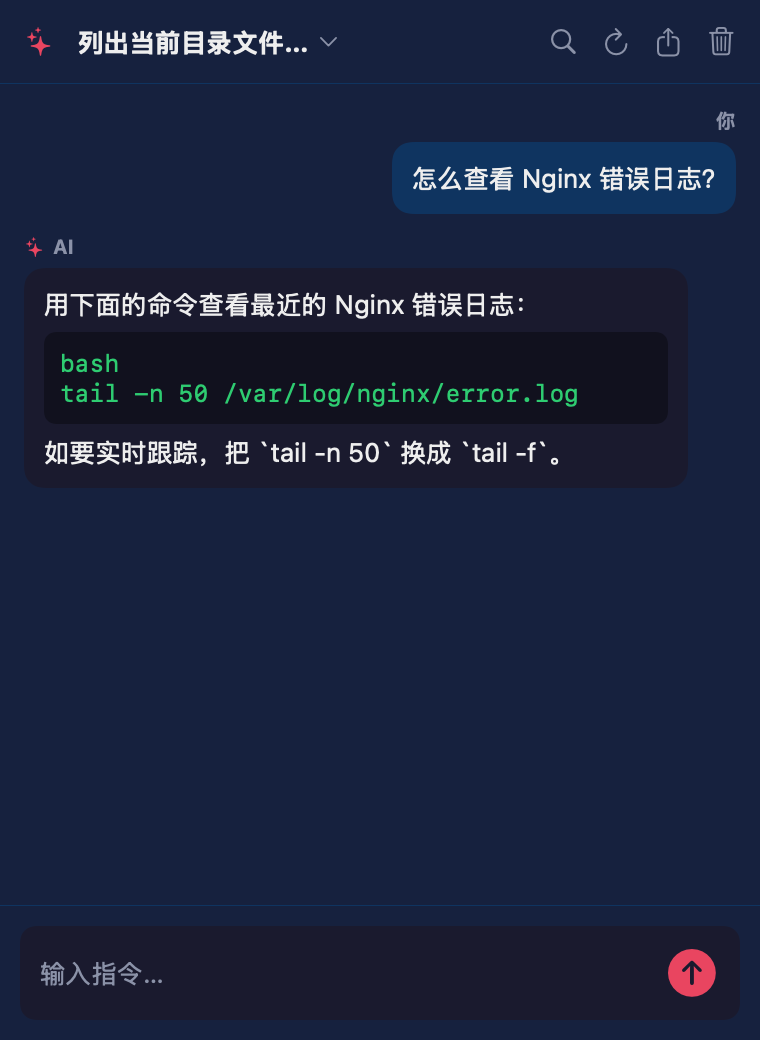
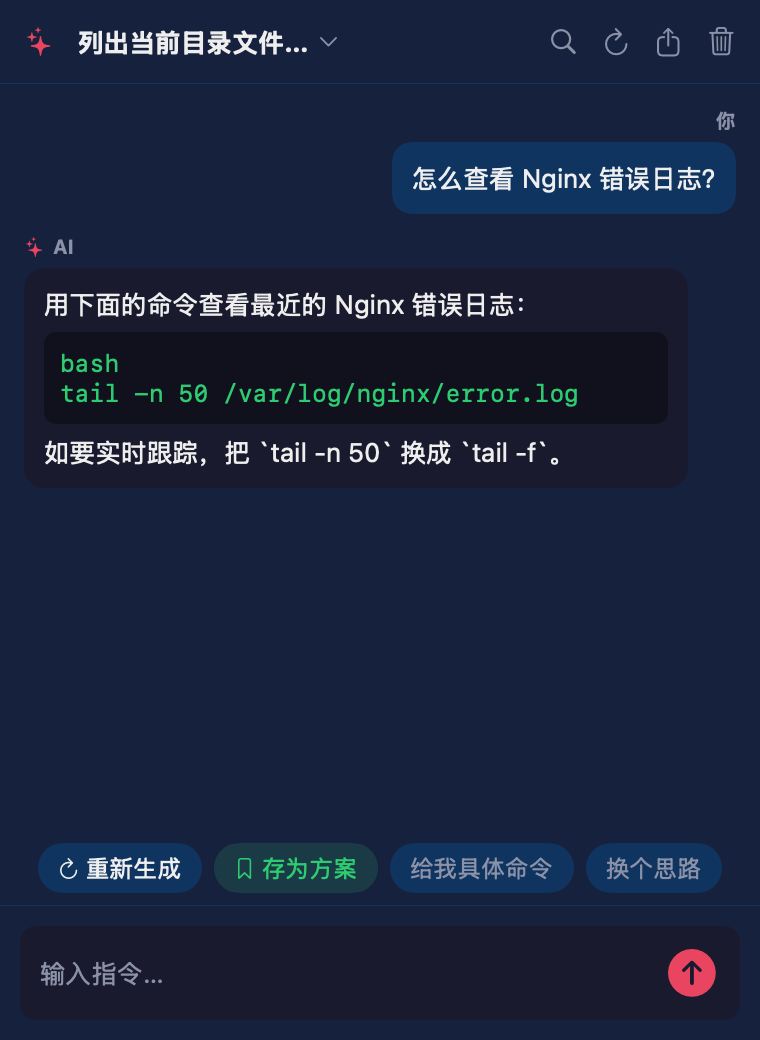
chore: AI 面板 Showcase 补快捷追问+存为方案，渲染更新截图
- AIPanelShowcase 加 重新生成/存为方案(绿)/快捷追问 Chip 行(对齐真实视图)
- swift run Shots 渲染 03-ai-panel.png 核对布局/配色(Theme)无误，拷 screenshots/
- 截图与功能同步;swift build + 8 自测全过

Changed region(s): [[0.0303, 0.8, 0.9684, 0.8615]]

diff --git a/apple/App/Sources/DevTools/Showcase.swift b/apple/App/Sources/DevTools/Showcase.swift
@@ -373,6 +373,22 @@ struct AIPanelShowcase: View {
             .padding(12)
             .frame(maxWidth: .infinity, maxHeight: .infinity, alignment: .topLeading)
 
+            // 快捷追问 + 存为方案（末条 assistant 且非处理/搜索时，对齐真实视图）
+            if !messages.isEmpty && !processing && !searching && messages.last?.role == .assistant {
+                HStack(spacing: 6) {
+                    HStack(spacing: 3) {
+                        Image(systemName: "arrow.clockwise").font(.system(size: 10)); Text("重新生成").font(.system(size: 12))
+                    }.padding(.horizontal, 10).padding(.vertical, 5).background(Theme.surfaceLight).foregroundStyle(Theme.textPrimary).clipShape(Capsule())
+                    HStack(spacing: 3) {
+                        Image(systemName: "bookmark").font(.system(size: 10)); Text("存为方案").font(.system(size: 12))
+                    }.padding(.horizontal, 10).padding(.vertical, 5).background(Theme.success.opacity(0.15)).foregroundStyle(Theme.success).clipShape(Capsule())
+                    ForEach(["给我具体命令", "换个思路"], id: \.self) { q in
+                        Text(q).font(.system(size: 12)).padding(.horizontal, 10).padding(.vertical, 5)
+                            .background(Theme.surfaceLight).foregroundStyle(Theme.textSecondary).clipShape(Capsule())
+                    }
+                }
+                .padding(.horizontal, 12).padding(.vertical, 6)
+            }
             Rectangle().fill(Theme.surfaceLight).frame(height: 0.5)
             HStack(spacing: 8) {
                 Text("输入指令…").font(.system(size: 13)).foregroundStyle(Theme.textSecondary)